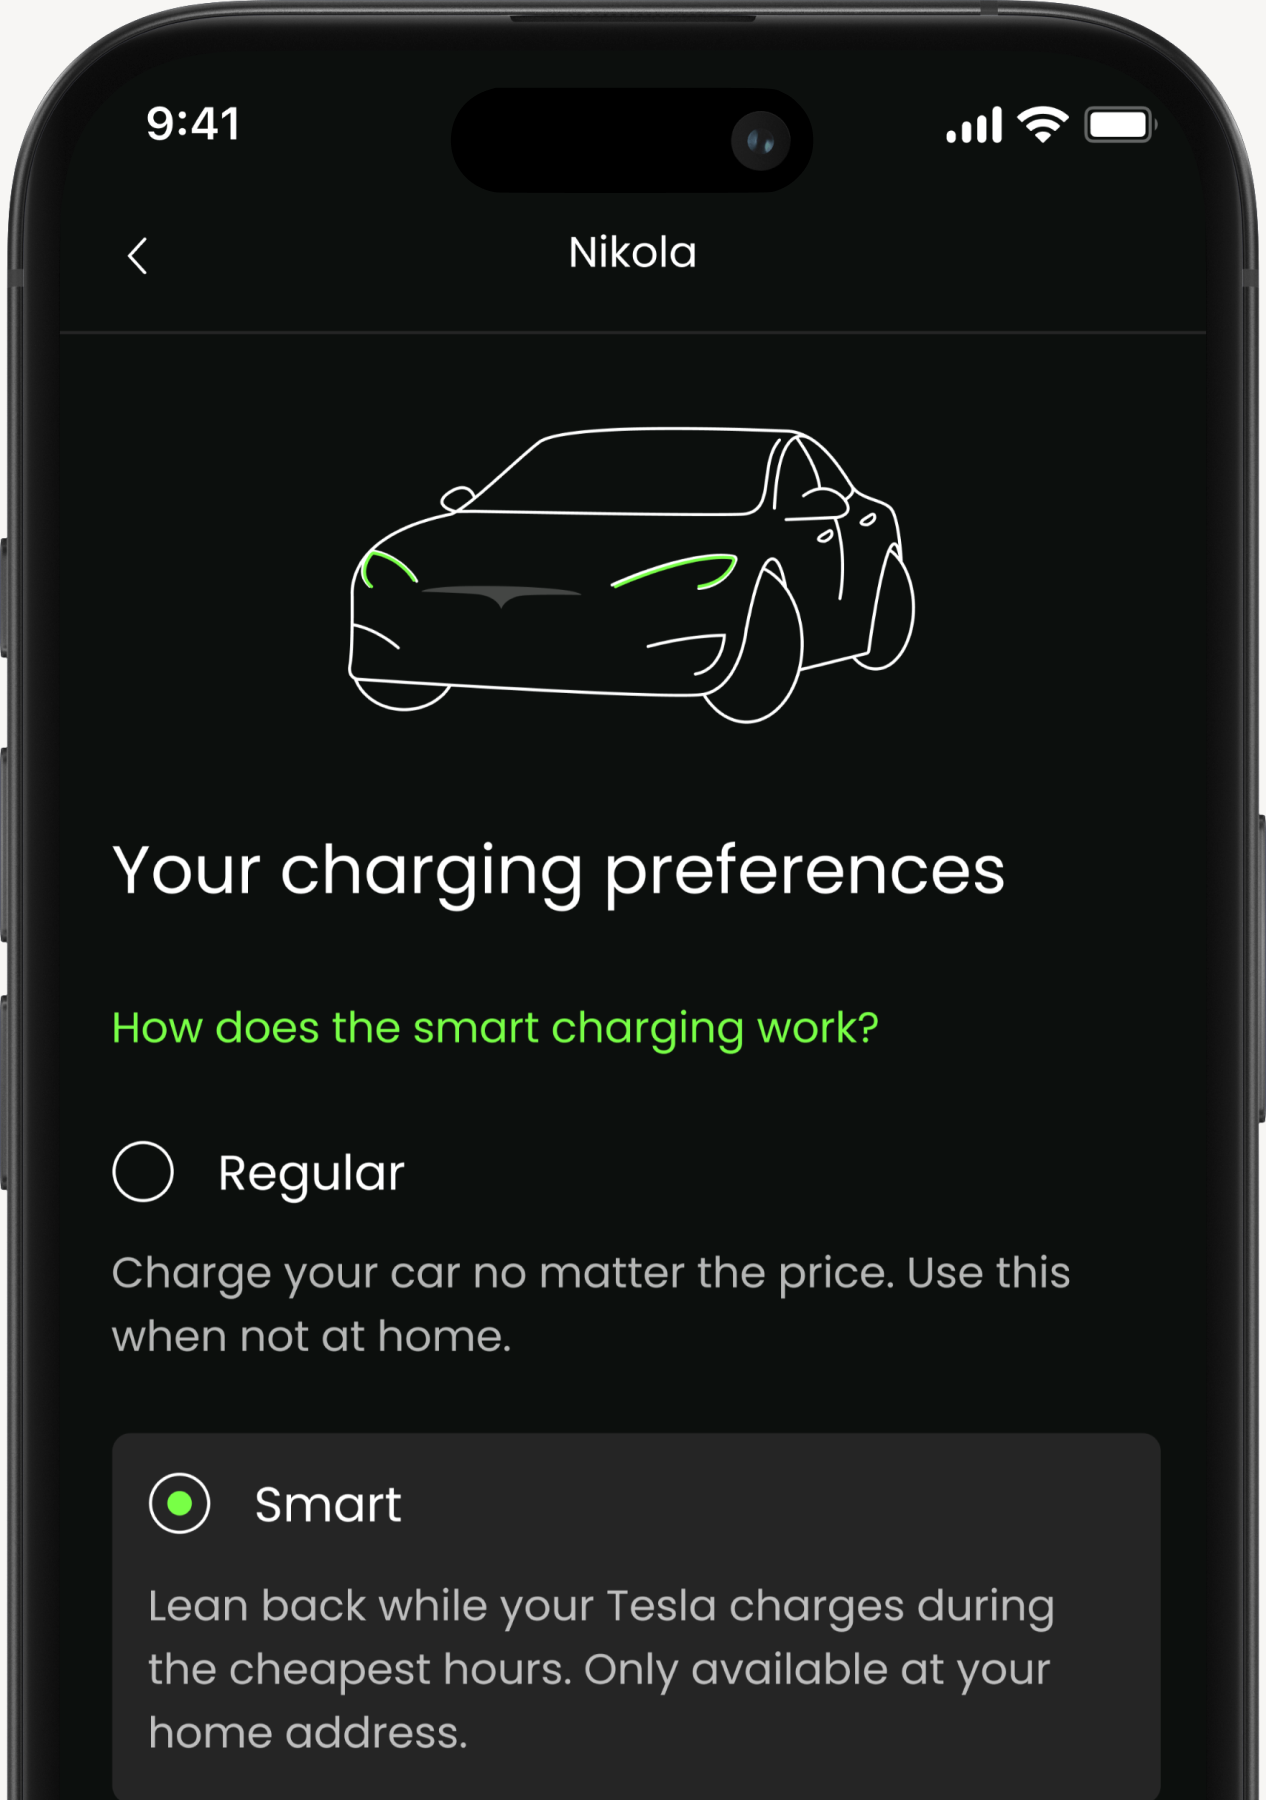
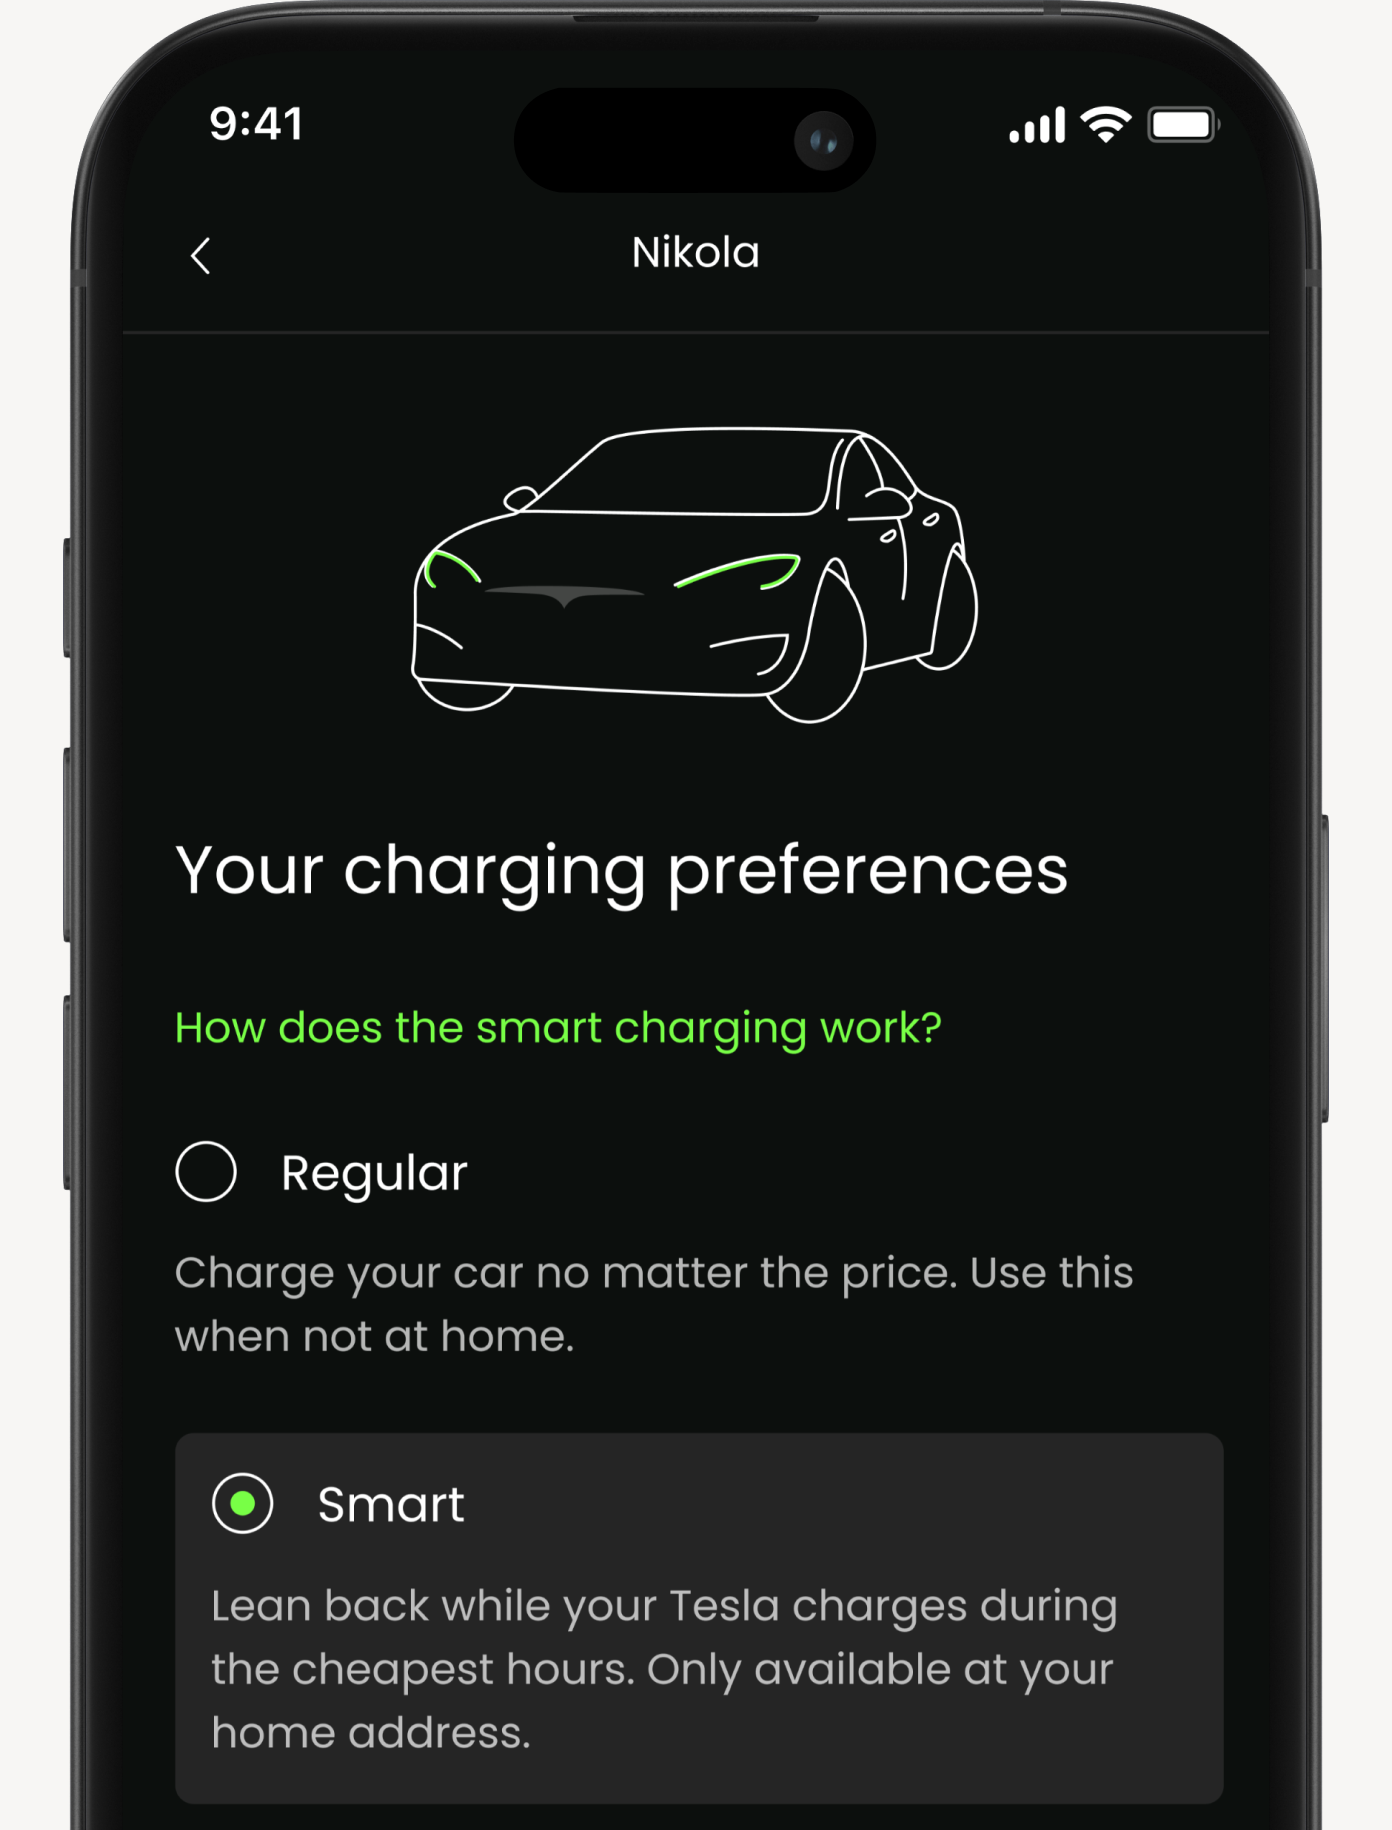
Finalize case study assets and copy for portfolio launch.
Barry, Norlys, and Usisaat pages get updated hero and row assets, revised Problem copy, and removal of empty Usisaat tiles.

diff --git a/app/case-studies/barry-energy/page.tsx b/app/case-studies/barry-energy/page.tsx
@@ -7,6 +7,11 @@ const ICONS_BARRY_VIDEO = {
   mp4: "https://res.cloudinary.com/dtl8ecgm2/video/upload/v1781094685/icons-barry_kfo7ag.mp4",
 } as const;
 
+const BARBARBAR_VIDEO = {
+  webm: "https://res.cloudinary.com/dtl8ecgm2/video/upload/v1781171487/barbarbar_zcfrhx.webm",
+  mp4: "https://res.cloudinary.com/dtl8ecgm2/video/upload/v1781171486/barbarbar_nfyqzv.mp4",
+} as const;
+
 /** Clip frame at exact Figma x/y/w/h inside a 612×670 tile; optional mobile clip (5804:19795) */
 function FigmaFrame({
   left,
@@ -151,10 +156,11 @@ export default function BarryEnergyCaseStudyPage() {
                 <div className="flex flex-col gap-[7px]">
                   <p className="text-[18px] font-medium uppercase leading-[27px]">Problem</p>
                   <p className="text-[15px] font-normal leading-[22px]">
-                    Barry Energy already had a clear brand - bold, green, and futuristic. The challenge
-                    was bringing that feeling into the product itself. Not just keeping things visually
-                    consistent, but making colours, icons, and interaction feel like part of the same
-                    story.
+                    Barry Energy already had a clear brand — bold, green, and futuristic. As an EV charging
+                    app that helps drivers charge when electricity is cheapest, the product needed to feel
+                    just as smart and effortless as the service itself. The challenge was bringing that
+                    feeling into the experience — not just keeping things visually consistent, but making
+                    colours, icons, and interactions feel like part of the same story.
                   </p>
                 </div>
                 <div className="flex flex-col gap-[7px]">
@@ -212,7 +218,22 @@ export default function BarryEnergyCaseStudyPage() {
                   decoding="async"
                 />
               </MockupTile>
-              <MockupTile empty className="max-lg:hidden" />
+              <MockupTile className="max-lg:hidden">
+                {/* Same as homepage row 5 — phone flush to tile bottom */}
+                <video
+                  className="absolute bottom-0 left-1/2 block h-[541px] w-[412px] max-w-none -translate-x-1/2 object-cover object-bottom"
+                  width={412}
+                  height={541}
+                  autoPlay
+                  loop
+                  muted
+                  playsInline
+                  preload="metadata"
+                >
+                  <source src={BARBARBAR_VIDEO.webm} type="video/webm" />
+                  <source src={BARBARBAR_VIDEO.mp4} type="video/mp4" />
+                </video>
+              </MockupTile>
             </div>
 
             {/* Row 3 — Figma 5671:13958 */}
@@ -330,32 +351,30 @@ export default function BarryEnergyCaseStudyPage() {
               </MockupTile>
             </div>
 
-            {/* Row 6 — Figma 5671:14341 — desktop only */}
+            {/* Row 6 — Figma 5671:14341 / 5838:83280 + 5838:83740 — 444×536, bottom flush, centered */}
             <div className="grid grid-cols-1 gap-[16px] max-lg:hidden lg:grid-cols-2">
               <MockupTile>
-                {/* Figma 5671:14382: x:95, 422px wide — flush to bottom */}
                 <Image
-                  src="/images/barry/case-study/row-6-preferences.png"
+                  src="/images/barry/case-study/row-6-left.png"
                   alt="Barry Energy charging preferences"
-                  width={1266}
-                  height={1800}
+                  width={1332}
+                  height={1608}
                   unoptimized
                   quality={100}
-                  className="absolute bottom-0 left-[95px] block h-auto w-[422px] max-w-none"
-                  sizes="422px"
+                  className="absolute bottom-0 left-1/2 block h-auto w-[444px] max-w-none -translate-x-1/2"
+                  sizes="444px"
                 />
               </MockupTile>
               <MockupTile>
-                {/* Figma 5671:14391: x:95, 422px wide — flush to bottom */}
                 <Image
-                  src="/images/barry/case-study/row-6-charging.png"
-                  alt="Barry Energy schedule smart charging"
-                  width={1266}
-                  height={1800}
+                  src="/images/barry/case-study/row-6-right.png"
+                  alt="Barry Energy electricity prices widget"
+                  width={1332}
+                  height={1608}
                   unoptimized
                   quality={100}
-                  className="absolute bottom-0 left-[95px] block h-auto w-[422px] max-w-none"
-                  sizes="422px"
+                  className="absolute bottom-0 left-1/2 block h-auto w-[444px] max-w-none -translate-x-1/2"
+                  sizes="444px"
                 />
               </MockupTile>
             </div>

diff --git a/app/case-studies/usisaat/page.tsx b/app/case-studies/usisaat/page.tsx
@@ -216,6 +216,16 @@ export default function UsisaatCaseStudyPage() {
             {/* Row 2 — Figma 5804:20968 + 5830:78249; mobile orders 1–2 */}
             <div className="grid grid-cols-1 gap-[16px] max-lg:contents lg:grid-cols-2">
               <MockupTile className="max-lg:order-1">
+                {/* r8euer8 — desktop row 2 left */}
+                {/* eslint-disable-next-line @next/next/no-img-element */}
+                <img
+                  src="/images/usisaat/case-study/row-2-man-desktop.png"
+                  alt="Usisaat platform on desktop"
+                  width={1836}
+                  height={2010}
+                  className="block h-auto w-full max-lg:hidden"
+                  decoding="async"
+                />
                 {/* Figma 5804:20970 — x:-58 y:-6, 563×422 */}
                 {/* eslint-disable-next-line @next/next/no-img-element */}
                 <img
@@ -223,7 +233,7 @@ export default function UsisaatCaseStudyPage() {
                   alt="Usisaat platform on desktop"
                   width={1836}
                   height={2010}
-                  className="block h-auto w-full max-lg:absolute max-lg:left-[calc(100%*-58.4/361-5%)] max-lg:top-[-6px] max-lg:h-[422px] max-lg:w-[calc(100%*563/361)] max-lg:max-w-none max-lg:object-cover"
+                  className="absolute left-[calc(100%*-58.4/361-5%)] top-[-6px] hidden h-[422px] w-[calc(100%*563/361)] max-w-none object-cover max-lg:block lg:hidden"
                   decoding="async"
                 />
               </MockupTile>
@@ -314,7 +324,18 @@ export default function UsisaatCaseStudyPage() {
 
             {/* Row 5 — Figma 5804:21168 mobile order 5; left tile desktop only */}
             <div className="grid grid-cols-1 gap-[16px] max-lg:contents lg:grid-cols-2">
-              <MockupTile empty className="max-lg:hidden" />
+              <MockupTile className="max-lg:hidden">
+                {/* Frame 2147231806 — desktop row 5 left */}
+                {/* eslint-disable-next-line @next/next/no-img-element */}
+                <img
+                  src="/images/usisaat/case-study/row-5-left.png"
+                  alt="Usisaat platform interface"
+                  width={1836}
+                  height={2010}
+                  className="block h-auto w-full"
+                  decoding="async"
+                />
+              </MockupTile>
               <MockupTile className="max-lg:order-5">
                 {/* Figma 5823:77385 desktop / 5804:21172 mobile — centered ~250px */}
                 <FigmaFrame
@@ -335,12 +356,6 @@ export default function UsisaatCaseStudyPage() {
                   />
                 </FigmaFrame>
               </MockupTile>
-            </div>
-
-            {/* Row 6 — desktop only */}
-            <div className="grid grid-cols-1 gap-[16px] max-lg:hidden lg:grid-cols-2">
-              <MockupTile empty />
-              <MockupTile empty />
             </div>
           </div>
         </section>

diff --git a/app/case-studies/norlys/page.tsx b/app/case-studies/norlys/page.tsx
@@ -53,8 +53,8 @@ function NorlysHeroImage({ mobile = false }: { mobile?: boolean }) {
     <img
       src="/images/norlys/case-study/hero.png"
       alt="Norlys monthly report lifestyle scene"
-      width={1024}
-      height={553}
+      width={3720}
+      height={2010}
       className={
         mobile
           ? "block h-auto w-full max-lg:absolute max-lg:left-[calc(100%*-185/361)] max-lg:top-0 max-lg:h-full max-lg:w-[calc(100%*731/361)] max-lg:max-w-none max-lg:object-cover"
@@ -103,12 +103,13 @@ export default function NorlysCaseStudyPage() {
                 <div className="flex flex-col gap-[7px]">
                   <p className="text-[18px] font-medium uppercase leading-[27px]">Problem</p>
                   <p className="text-[15px] font-normal leading-[22px]">
-                    Helping Norlys customers understand their energy use wasn&apos;t about accessing more
-                    data - it was about making the data meaningful. We created Monthly Reports, turning
-                    months of abstract consumption into something tangible, personal, and even delightful.
-                    Customers received bills full of numbers but little context, how this month compared,
-                    what drove usage, or where energy went. The data existed, but the presentation
-                    didn&apos;t support real understanding.
+                    Norlys helps customers track their electricity usage, costs, and billing in one place.
+                    But helping people understand their energy use wasn&apos;t about providing more data - it
+                    was about making the data meaningful. We created Monthly Reports, turning months of
+                    abstract consumption into something tangible, personal, and even delightful. Customers
+                    received bills full of numbers but little context: how this month compared, what drove
+                    usage, or where energy went. The data existed, but the presentation didn&apos;t support
+                    real understanding.
                   </p>
                 </div>
                 <div className="flex flex-col gap-[7px]">
